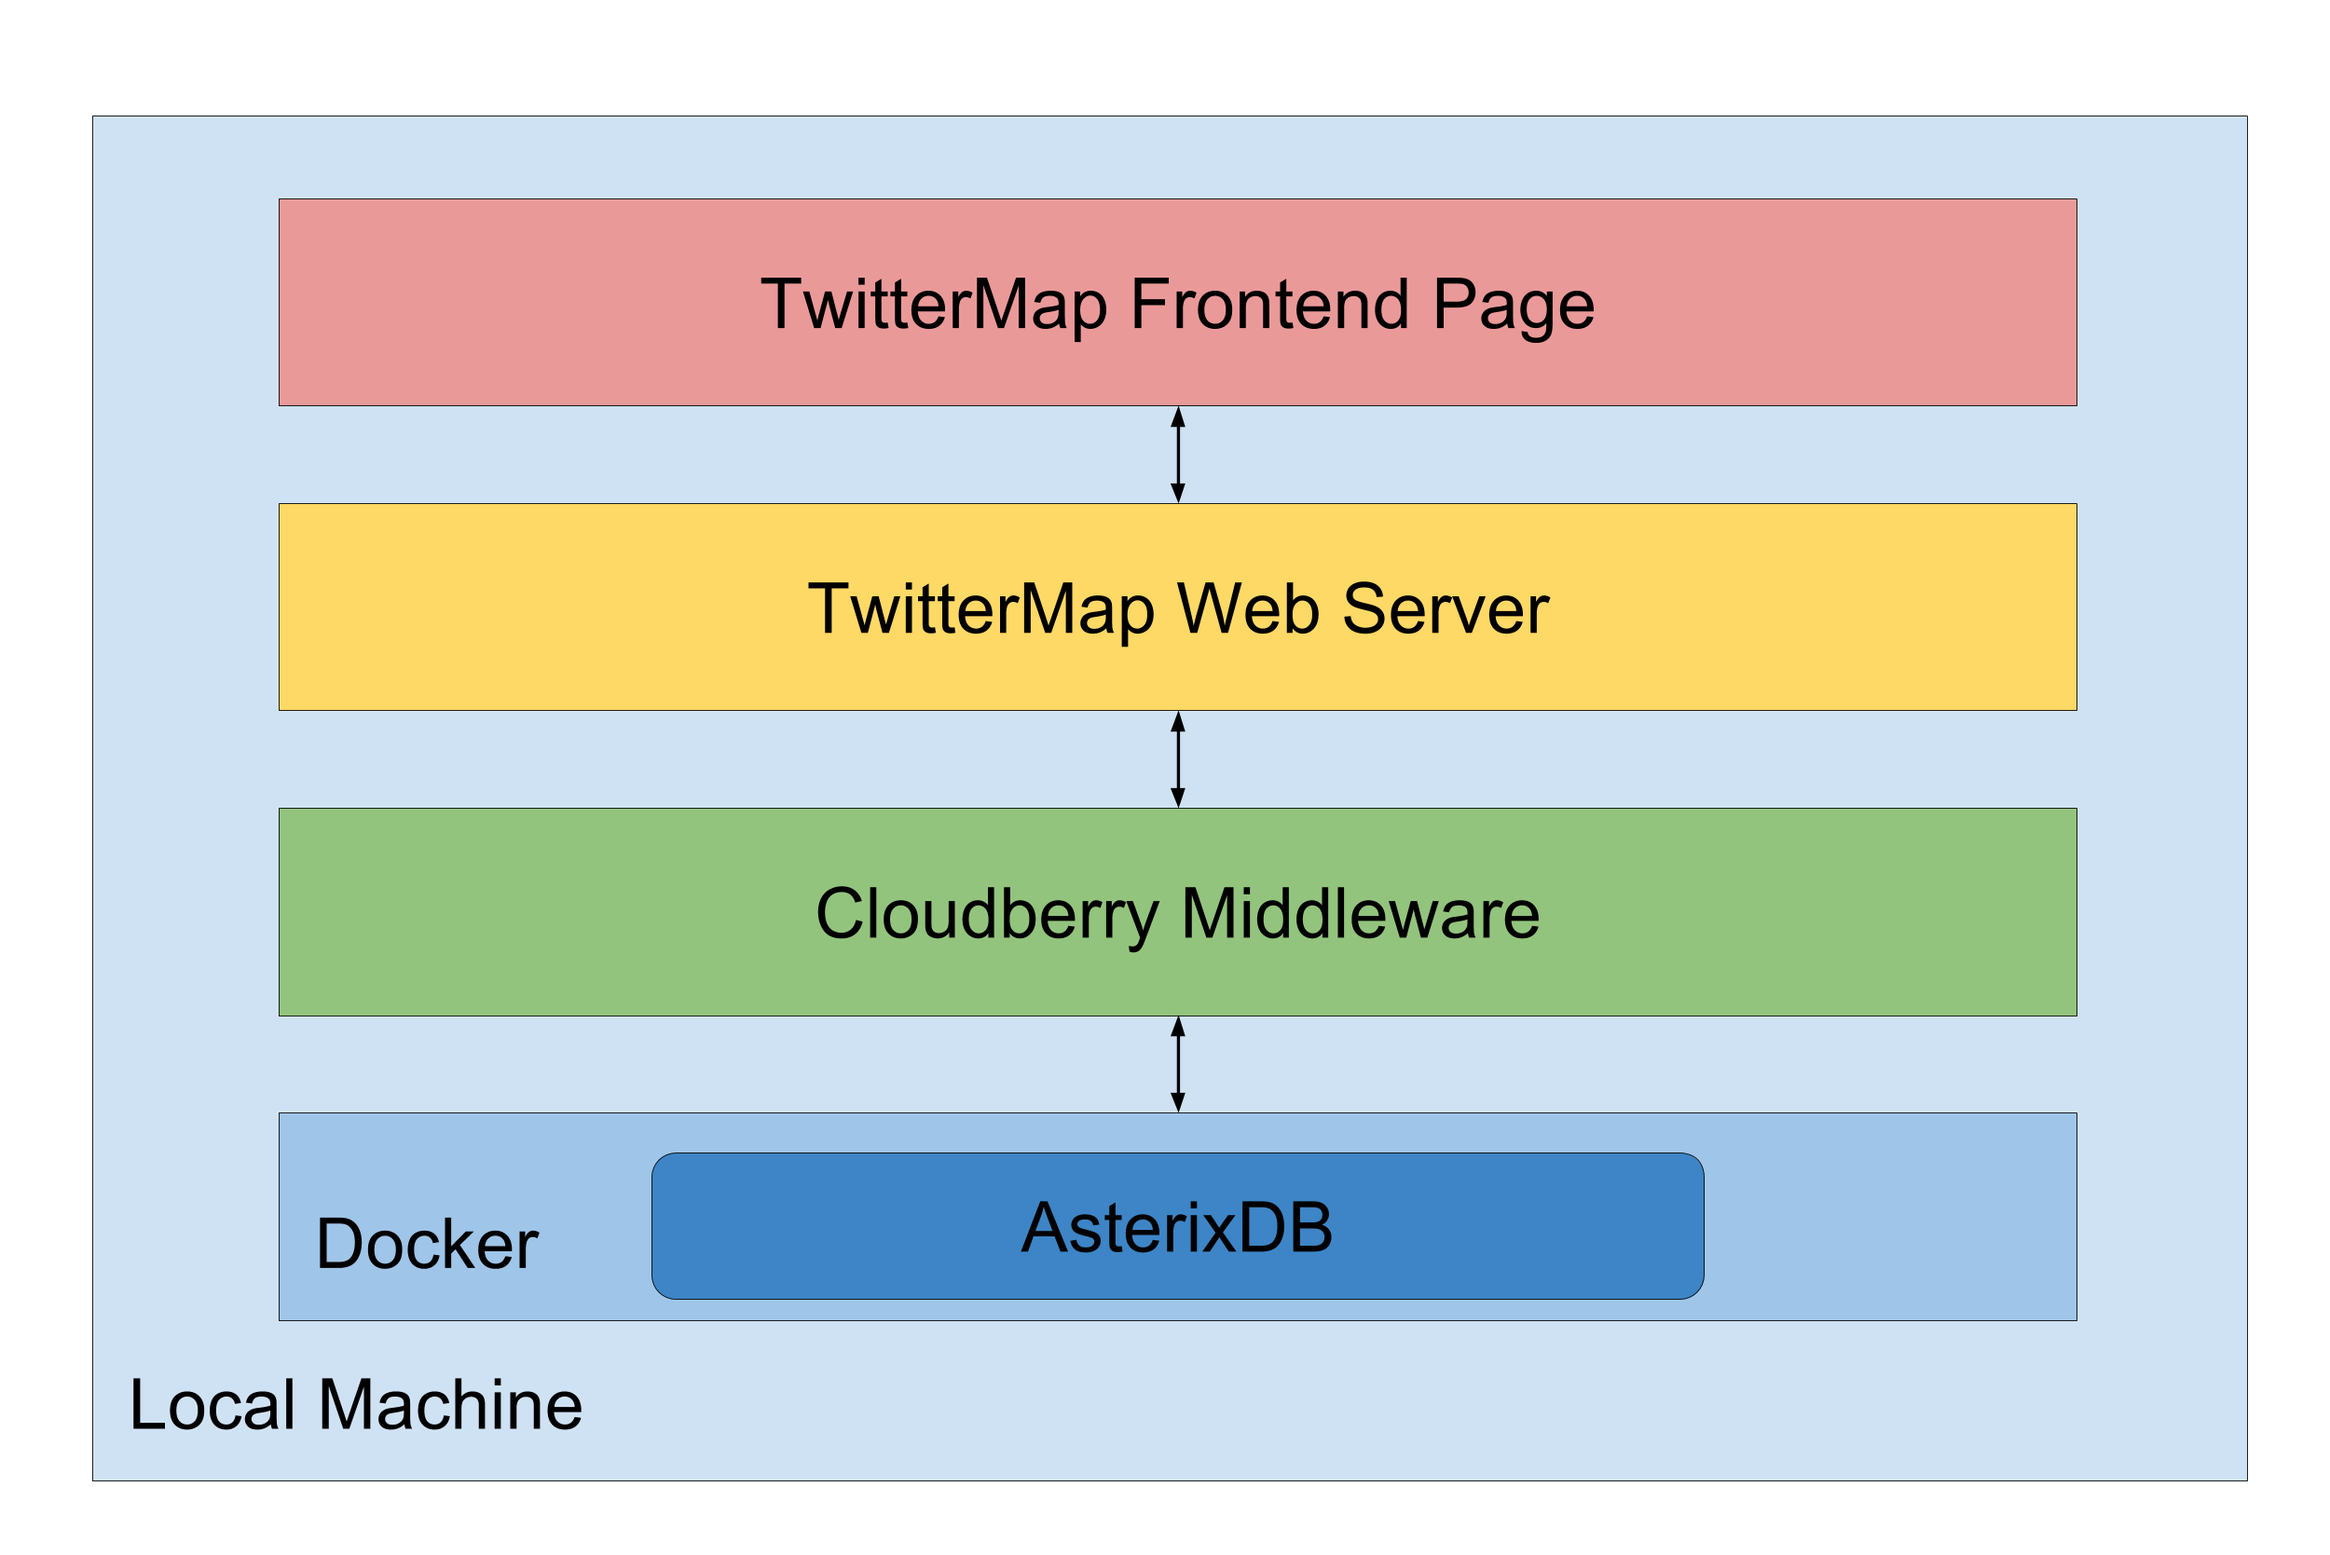
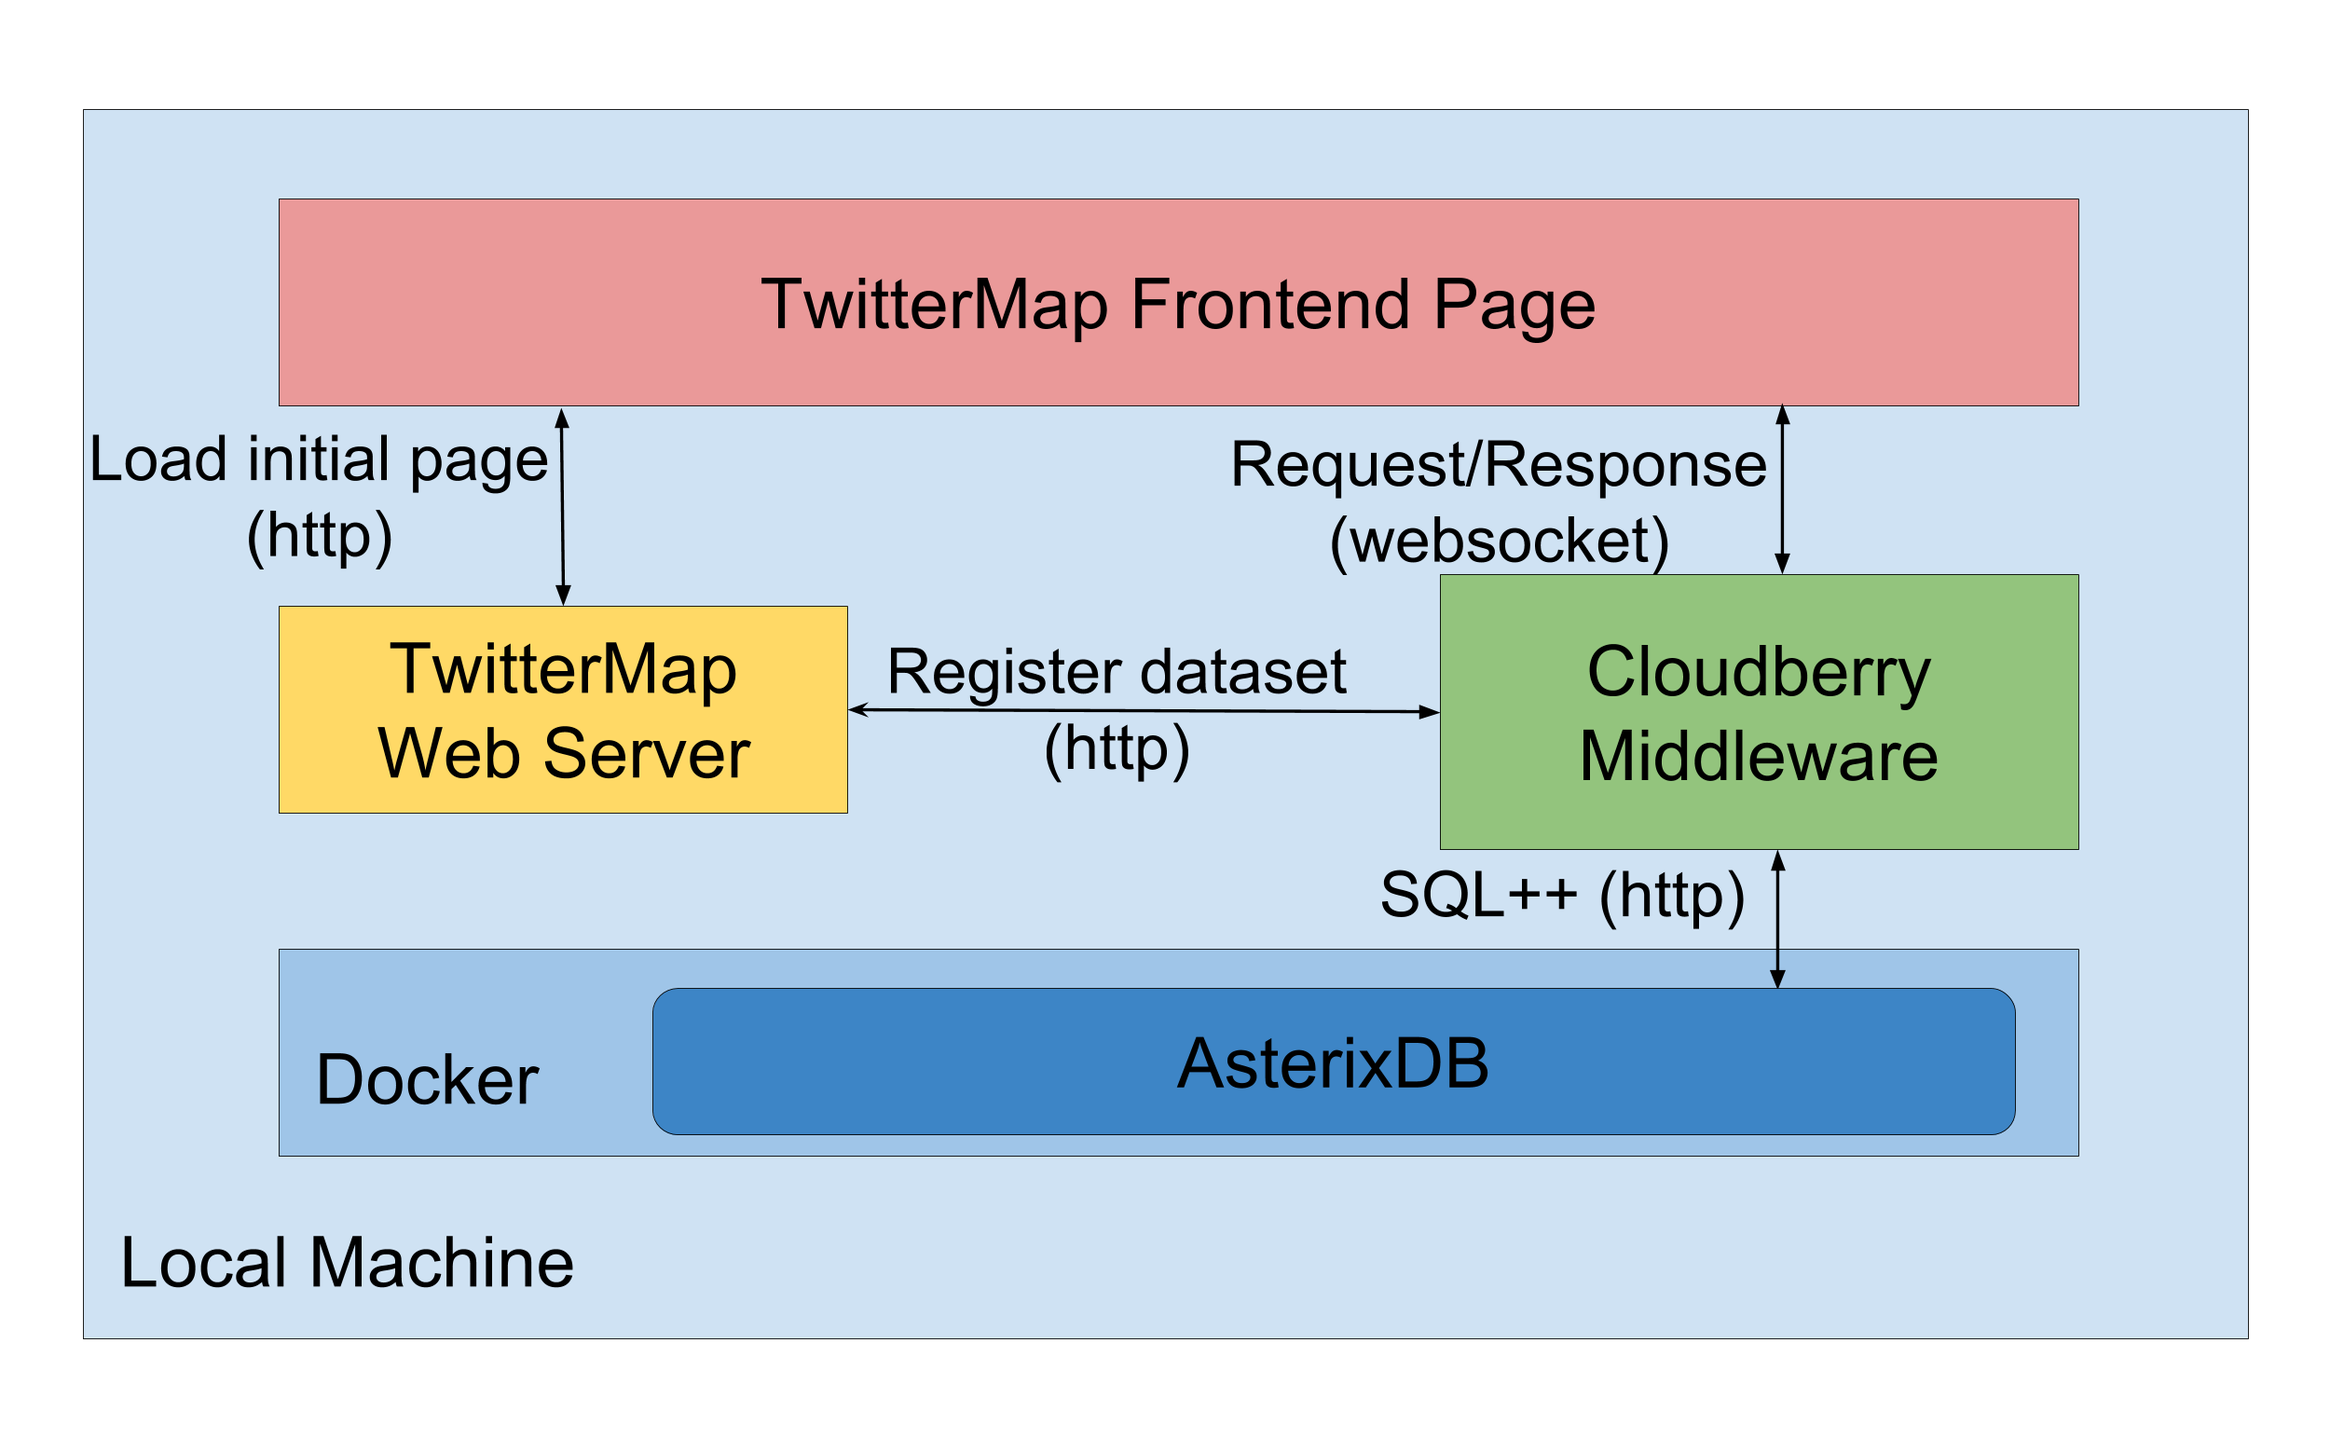
add explainations

diff --git a/docs/quick-start.md b/docs/quick-start.md
@@ -2,7 +2,7 @@
 layout: page
 ---
 
-## Setup TwitterMap Using Cloudberry and AsterixDB
+## 1. Setup TwitterMap Using Cloudberry and AsterixDB
 
 This page includes instructions on how to use Cloudberry and AsterixDB to setup a small instance of the
 [TwitterMap](http://cloudberry.ics.uci.edu/demos/twittermap/) on a local machine. 
@@ -72,11 +72,9 @@ Wait until the shell prints the messages shown in the following screenshot:
 
 **Congratulations!** You have successfully set up TwitterMap using Cloudberry and AsterixDB!
 
-
 ## Setup your own AsterixDB cluster 
 
 The instructions above assume that we use an AsterixDB instance in a Docker container. If you want to setup your AsterixDB cluster, please use the following steps.
-
 
 **Step 8**: Follow the instructions on the [AsterixDB Installation Guide](https://ci.apache.org/projects/asterixdb/index.html) to install an AsterixDB cluster.  Select your preferred installation option. 
 
@@ -84,20 +82,207 @@ The instructions above assume that we use an AsterixDB instance in a Docker cont
 
 You need to give the RESTFul API link of the AsterixDB cluster and one of its NC names to the ingestion script as following:
 
-```
+```bash
 ~/cloudberry> ./script/ingestAllTwitterToLocalCluster.sh http://YourAsterixDBServerIP:19002/aql ONE_OF_NC_NAMES
 ```
 
 **Step 10**: Change the Cloudberry middleware configuration to connect to this new AsterixDB cluster. 
 You can modify the AsterixDB hostname in the configuration file `neo/conf/application.conf` by changing the `asterixdb.url` value.
 
-```
+```properties
 asterixdb.url = "http://YourAsterixDBHostName:19002/query/service"
 ```
 
-## Build your own application
+## 2. Under the Hood
 
-TwitterMap is one example of how to use Cloudberry. To develop your own application, please find more information in [documentation](/documentation).
+Next we explain the details of the TwitterMap.
+
+### 2.1 Create a Dataset in AsterixDB
+
+In Step 9, we ran a script called `./script/ingestAllTwitterToLocalCluster.sh` to create data sets and ingest data into them. 
+The following are the executed DDL statements.
+ 
+
+```
+create dataverse twitter if not exists;
+use dataverse twitter
+create type typeUser if not exists as open {
+    id: int64,
+    name: string,
+    screen_name : string,
+    lang : string,
+    location: string,
+    create_at: date,
+    description: string,
+    followers_count: int32,
+    friends_count: int32,
+    statues_count: int64
+}
+create type typePlace if not exists as open{
+    country : string,
+    country_code : string,
+    full_name : string,
+    id : string,
+    name : string,
+    place_type : string,
+    bounding_box : rectangle
+}
+create type typeGeoTag if not exists as open {
+    stateID: int32,
+    stateName: string,
+    countyID: int32,
+    countyName: string,
+    cityID: int32?,
+    cityName: string?
+}
+create type typeTweet if not exists as open{
+    create_at : datetime,
+    id: int64,
+    "text": string,
+    in_reply_to_status : int64,
+    in_reply_to_user : int64,
+    favorite_count : int64,
+    coordinate: point?,
+    retweet_count : int64,
+    lang : string,
+    is_retweet: boolean,
+    hashtags : {{ string }} ?,
+    user_mentions : {{ int64 }} ? ,
+    user : typeUser,
+    place : typePlace?,
+    geo_tag: typeGeoTag
+}
+create dataset ds_tweet(typeTweet) if not exists primary key id 
+using compaction policy prefix (("max-mergable-component-size"="134217728"),("max-tolerance-component-count"="10")) with filter on create_at ;
+create index text_idx if not exists on ds_tweet("text") type fulltext;
+```
+
+Read this [page](https://ci.apache.org/projects/asterixdb/sqlpp/primer-sqlpp.html) about the details.
+
+The script uses a feature called `Feed` to ingest tweets into AsterixDB. The following statements create
+a feed called `TweetFeed`:
+
+```
+create feed TweetFeed using socket_adapter
+(
+    ("sockets"="$nc:10001"),
+    ("address-type"="nc"),
+    ("type-name"="typeTweet"),
+    ("format"="adm")
+);
+connect feed TweetFeed to dataset ds_tweet;
+start feed TweetFeed;
+```
+
+The following shell command ingests the data from a local file into AsterixDB using the defined `TweetFeed`:
+
+
+```bash
+gunzip -c ./script/sample.adm.gz | ./script/fileFeed.sh $host 10001
+```
+
+For more information about AsterixDB data feed, please refer to this [page](https://ci.apache.org/projects/asterixdb/feeds/tutorial.html).
+
+### 2.2 Setup Cloudberry
+
+In Step 10, we changed the configuration file of Cloudberry by providing the information about the
+AsterixDB instance.
+
+### 2.3 Setup TwitterMap Web Server
+
+TwitterMap demo is also Play! application that talks with Cloudberry service. Similarity, we can change the
+configuration file in `twittermap/conf/application.conf` to provide the information about the Cloudberry service.
+
+The `cloudberry.register` property specify the data registration HTTP API to register the AsterixDB dataset to Cloudberry
+
+```properties
+cloudberry.register = "http://CLOUDBERRY-HOST-NAME:CLOUDBERRY-PORT/admin/register"
+```
+
+When the TwitterMap server starts, it will register the `twitter.ds_tweet` dataset to the Cloudberry server.
+The corresponding logic is implemented in the `twittermap/app/model/Migration_20170428.scala`. Basically, it 
+sends the following Cloudberry DDL request to let Cloudberry collect the information of `twitter.ds_tweet` dataset in AsterixDB.
+
+```JSON
+{
+  "dataset":"twitter.ds_tweet",
+  "schema":{
+  	"typeName":"twitter.typeTweet",
+    "dimension":[
+      {"name":"create_at","isOptional":false,"datatype":"Time"},
+      {"name":"id","isOptional":false,"datatype":"Number"},
+      {"name":"coordinate","isOptional":false,"datatype":"Point"},
+      {"name":"lang","isOptional":false,"datatype":"String"},
+      {"name":"is_retweet","isOptional":false,"datatype":"Boolean"},
+      {"name":"hashtags","isOptional":true,"datatype":"Bag","innerType":"String"},
+      {"name":"user_mentions","isOptional":true,"datatype":"Bag","innerType":"Number"},
+      {"name":"user.id","isOptional":false,"datatype":"Number"},
+      {"name":"geo_tag.stateID","isOptional":false,"datatype":"Number"},
+      {"name":"geo_tag.countyID","isOptional":false,"datatype":"Number"},
+      {"name":"geo_tag.cityID","isOptional":false,"datatype":"Number"},
+      {"name":"geo","isOptional":false,"datatype":"Hierarchy","innerType":"Number",
+        "levels":[
+          {"level":"state","field":"geo_tag.stateID"},
+          {"level":"county","field":"geo_tag.countyID"},
+          {"level":"city","field":"geo_tag.cityID"}]}
+    ],
+    "measurement":[
+      {"name":"text","isOptional":false,"datatype":"Text"},
+      {"name":"in_reply_to_status","isOptional":false,"datatype":"Number"},
+      {"name":"in_reply_to_user","isOptional":false,"datatype":"Number"},
+      {"name":"favorite_count","isOptional":false,"datatype":"Number"},
+      {"name":"retweet_count","isOptional":false,"datatype":"Number"},
+      {"name":"user.status_count","isOptional":false,"datatype":"Number"}
+    ],
+    "primaryKey":["id"],
+    "timeField":"create_at"
+  }
+}
+```
+
+The demo also needs to query the population dataset in AsterixDB. The following JSON file declare a  `twitter.dsStatePopulation` dataset.
+
+```JSON
+{
+    "dataset": "twitter.dsStatePopulation",
+    "schema": {
+        "typeName": "twitter.typeStatePopulation",
+        "dimension": [
+            { "name": "name", "isOptional": false, "datatype": "String" },
+            { "name": "stateID", "isOptional": false, "datatype": "Number" },
+            { "name": "create_at", "isOptional": false, "datatype": "Time" }
+        ],
+        "measurement": [
+            { "name": "population", "isOptional": false, "datatype": "Number" }
+        ],
+        "primaryKey": ["stateID"],
+        "timeField": "create_at"
+    }
+}
+```
+
+The `cloudberry.ws` property is given to the front-end webpage to let the browser directly talk to the Cloudbery server. 
+
+```properties
+cloudberry.ws = "ws://CLOUDBERRY_HOST_NAME:CLOUDBERRY_PORT/ws"
+```
+
+This web socket is used for send the Cloudberry request and receive the responses. The conresponding logic can be found
+in `twittermap/public/javascripts/common/services.js` file.
+
+For more information about how to write registration DDL and Cloudberry request please refer to [documentation](/documentation).
+
+## 3. Build your own application
+
+TwitterMap is one example of how to use Cloudberry. To develop your own application, you will need to change the following places.
+
+1. Give the link of the AsterixDB Instance to Cloudberry by following 2.2
+2. Register the necessary datasets into Cloudberry as in 2.3
+3. Set up the web socket connection between your front-end webpage and the Cloudberry server as in 2.3
+4. Define your query and response handling logic in your own applications. 
+
+Then you should achieve the similar user experience as TwitterMap demo.
+
 
 [architecture]: /img/quick-start-architecture.png
 {: width="800px"}
@@ -111,3 +296,6 @@ TwitterMap is one example of how to use Cloudberry. To develop your own applicat
 {: width="800px"}
 [web]: /img/web.png
 {: width="800px"}
+
+
+
